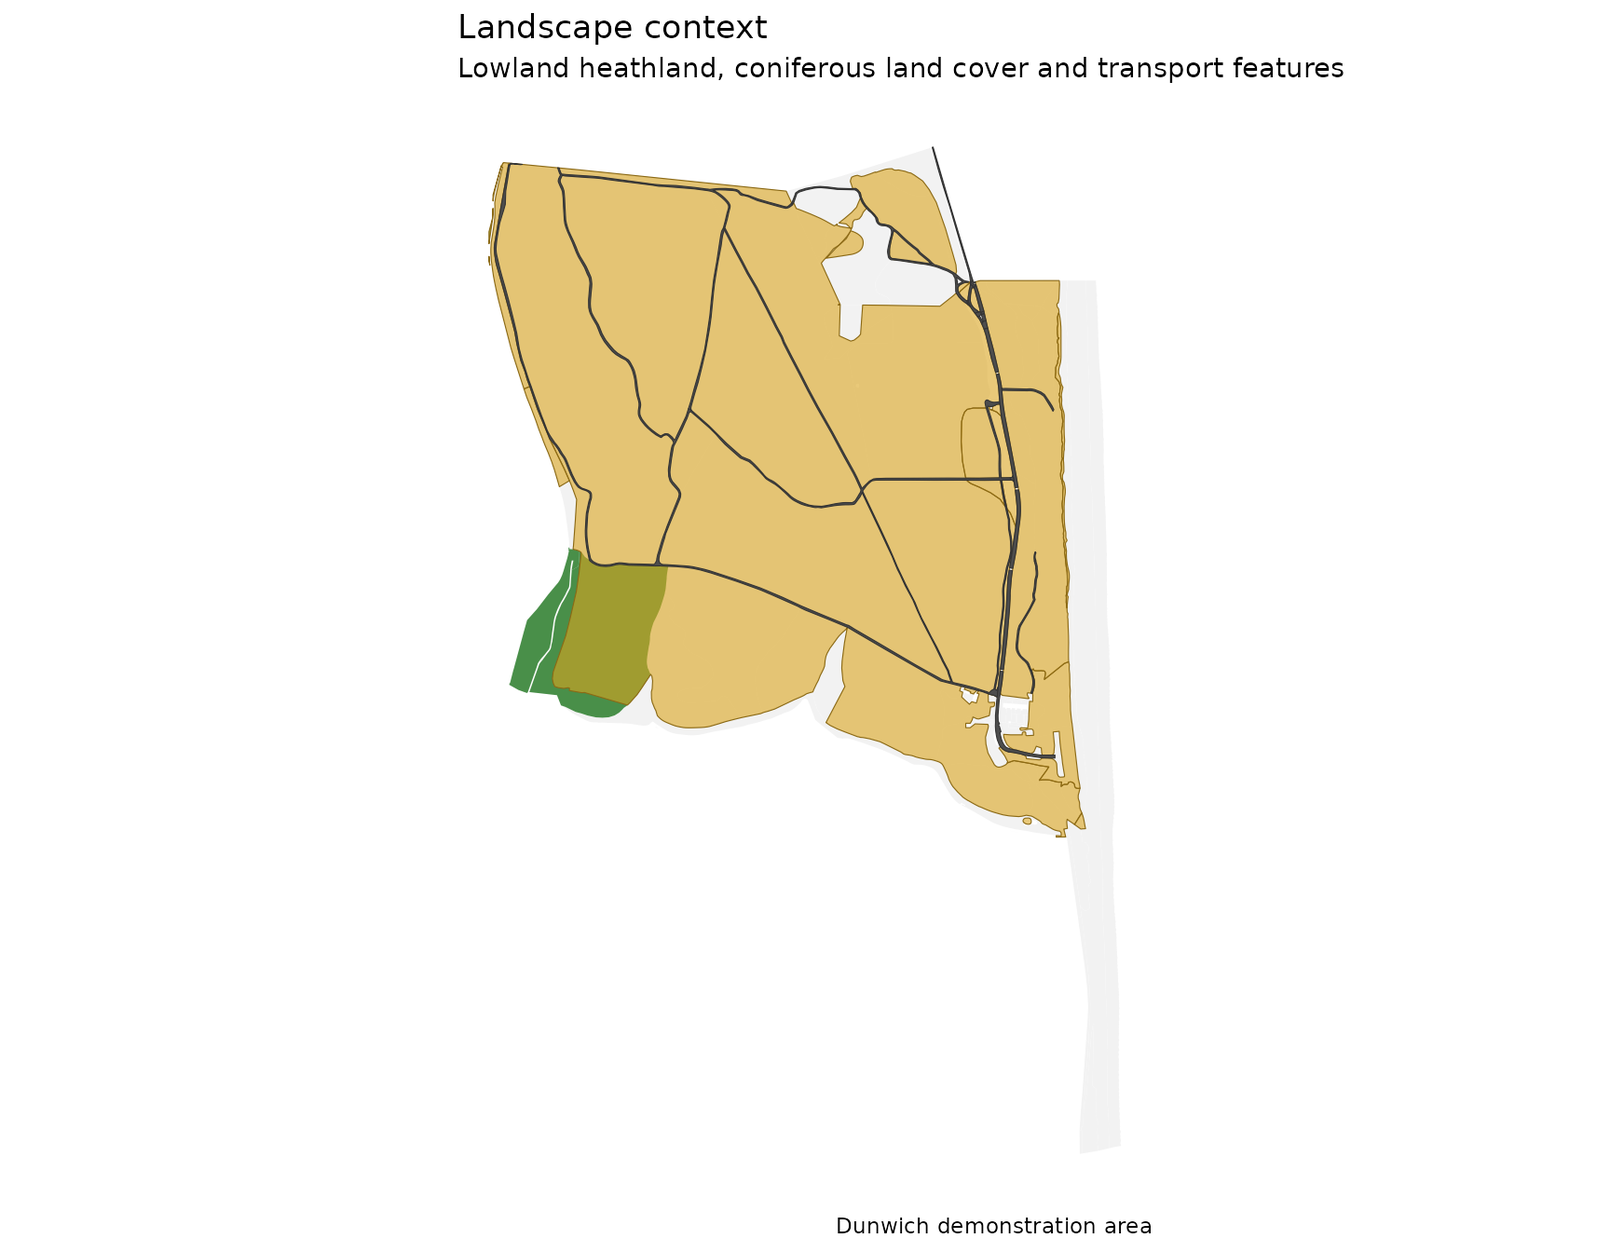
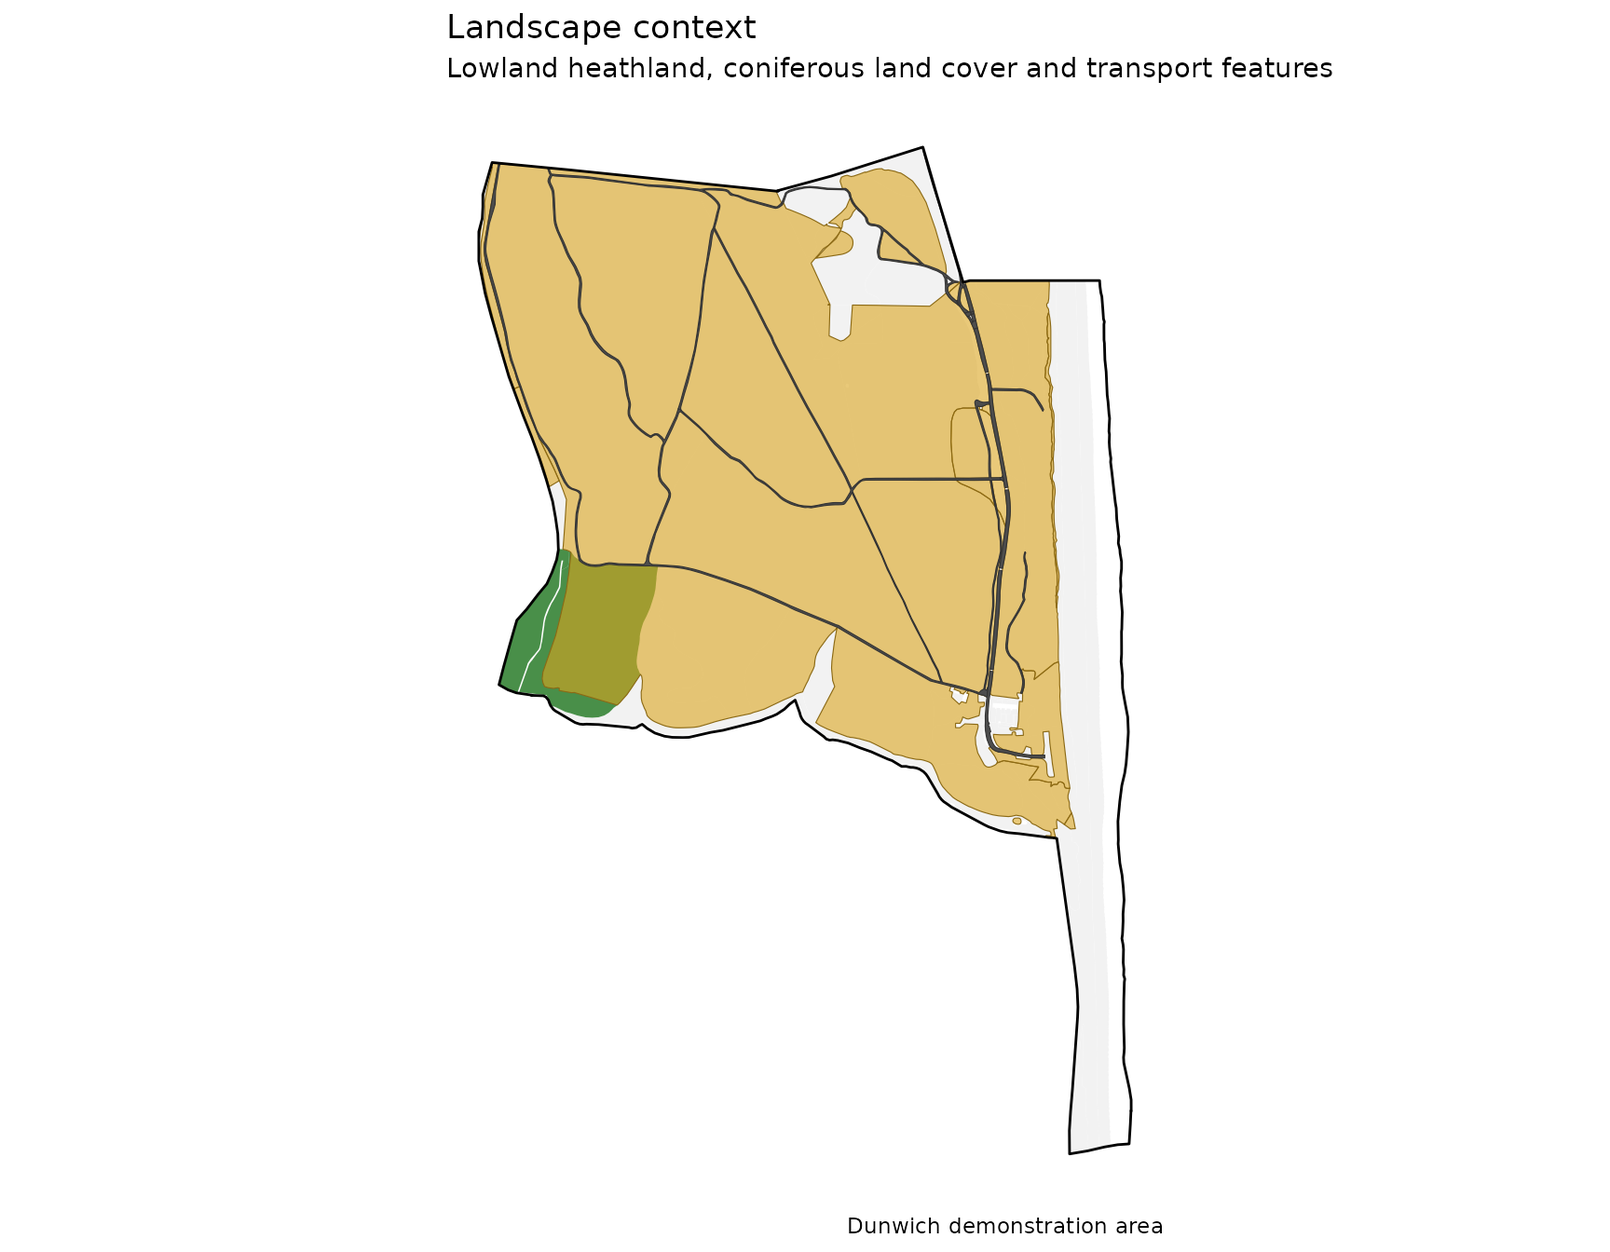
Deploying to gh-pages from @ julianflowers/sentinelBurnR@2986d019aa525b361d42f618dafe06cf55eafc19 🚀

diff --git a/articles/getting-started.html b/articles/getting-started.html
@@ -456,7 +456,7 @@ short-wave infrared reflectance.</li>
 <span><span class="co">#&gt; [1] "red"    "nir08"  "swir16"</span></span>
 <span><span class="co">#&gt; </span></span>
 <span><span class="co">#&gt; $provenance$processing$created</span></span>
-<span><span class="co">#&gt; [1] "2026-09-23 19:08:18 UTC"</span></span>
+<span><span class="co">#&gt; [1] "2026-09-23 19:30:38 UTC"</span></span>
 <span><span class="co">#&gt; </span></span>
 <span><span class="co">#&gt; $provenance$processing$package_version</span></span>
 <span><span class="co">#&gt; [1] "0.0.1"</span></span>
@@ -556,16 +556,16 @@ therefore remains an important part of the interpretation.</p>
 <p>The Sentinel-2 moisture anomaly indicates whether vegetation was
 unusually dry compared with previous years. It does not, by itself, tell
 us why the vegetation was dry.</p>
-<p>Meteorological data provide an independent line of evidence. Here we
-compare rainfall before the fire with the same period during the
-1991–2020 climate baseline.</p>
-<p>The demonstration data contain daily ERA5 rainfall extracted for the
-Dunwich area.</p>
+<p>Meteorological observations provide an independent line of evidence.
+<code>sentinelBurnR</code> can compare recent rainfall and temperature
+with the equivalent periods during a historical climate baseline. Here
+we use 1991–2020 as the reference period.</p>
+<p>For a full analysis, <code><a href="../reference/get_climate_baseline.html">get_climate_baseline()</a></code> downloads
+the required ERA5 data for both the analysis year and the baseline
+years. Only the months needed to calculate the requested climate windows
+are retrieved.</p>
 <div class="sourceCode" id="cb16"><pre class="downlit sourceCode r">
-<code class="sourceCode R"><span></span>
-<span><span class="va">boundary</span> <span class="op">&lt;-</span> <span class="fu"><a href="../reference/read_boundary.html">read_boundary</a></span><span class="op">(</span><span class="va">aoi</span><span class="op">)</span></span>
-<span></span>
-<span><span class="va">climate_data</span> <span class="op">&lt;-</span> <span class="fu">sentinelBurnR</span><span class="fu">::</span><span class="fu"><a href="../reference/get_climate_baseline.html">get_climate_baseline</a></span><span class="op">(</span></span>
+<code class="sourceCode R"><span><span class="va">climate_data</span> <span class="op">&lt;-</span> <span class="fu">sentinelBurnR</span><span class="fu">::</span><span class="fu"><a href="../reference/get_climate_baseline.html">get_climate_baseline</a></span><span class="op">(</span></span>
 <span>    boundary <span class="op">=</span> <span class="va">aoi</span>,</span>
 <span>    date <span class="op">=</span> <span class="fu"><a href="https://rdrr.io/r/base/as.Date.html" class="external-link">as.Date</a></span><span class="op">(</span><span class="st">"2026-07-29"</span><span class="op">)</span>,</span>
 <span>    baseline_years <span class="op">=</span> <span class="fl">1991</span><span class="op">:</span><span class="fl">2020</span></span>
@@ -580,6 +580,10 @@ Dunwich area.</p>
 <span><span class="op">)</span></span>
 <span></span>
 <span><span class="va">climate</span></span></code></pre></div>
+<p>Downloading ERA5 data requires access to the Copernicus Climate Data
+Store. To keep this vignette reproducible without network access, the
+executable example below uses rainfall data bundled with the
+package.</p>
 <div class="sourceCode" id="cb17"><pre class="downlit sourceCode r">
 <code class="sourceCode R"><span><span class="va">rainfall</span> <span class="op">&lt;-</span> <span class="fu"><a href="../reference/demo_data.html">demo_data</a></span><span class="op">(</span><span class="st">"rainfall"</span><span class="op">)</span></span>
 <span></span>
@@ -590,40 +594,38 @@ Dunwich area.</p>
 <span>    windows <span class="op">=</span> <span class="fu"><a href="https://rdrr.io/r/base/c.html" class="external-link">c</a></span><span class="op">(</span><span class="fl">30</span>, <span class="fl">60</span>, <span class="fl">90</span><span class="op">)</span></span>
 <span><span class="op">)</span></span>
 <span></span>
-<span><span class="va">rainfall_table</span> <span class="op">&lt;-</span> <span class="va">climate</span><span class="op">$</span><span class="va">summary</span> <span class="op">|&gt;</span></span>
+<span><span class="va">climate</span><span class="op">$</span><span class="va">summary</span> <span class="op">|&gt;</span></span>
 <span>    <span class="fu">dplyr</span><span class="fu">::</span><span class="fu"><a href="https://dplyr.tidyverse.org/reference/transmute.html" class="external-link">transmute</a></span><span class="op">(</span></span>
 <span>        `Period (days)` <span class="op">=</span> <span class="va">window_days</span>,</span>
 <span>        `2026 rainfall (mm)` <span class="op">=</span> <span class="va">current_mm</span>,</span>
 <span>        `1991–2020 median (mm)` <span class="op">=</span> <span class="va">baseline_median_mm</span>,</span>
-<span>        `Deficit (mm)` <span class="op">=</span> <span class="va">anomaly_mm</span>,</span>
+<span>        `Rainfall anomaly (mm)` <span class="op">=</span> <span class="va">anomaly_mm</span>,</span>
 <span>        `% of historical median` <span class="op">=</span> <span class="va">percent_of_normal</span>,</span>
 <span>        `Historical percentile` <span class="op">=</span> <span class="va">historical_percentile</span></span>
-<span>    <span class="op">)</span></span>
-<span></span>
-<span><span class="fu">knitr</span><span class="fu">::</span><span class="fu"><a href="https://rdrr.io/pkg/knitr/man/kable.html" class="external-link">kable</a></span><span class="op">(</span></span>
-<span>    <span class="va">rainfall_table</span>,</span>
-<span>    digits <span class="op">=</span> <span class="fl">1</span>,</span>
-<span>    caption <span class="op">=</span> <span class="fu"><a href="https://rdrr.io/r/base/paste.html" class="external-link">paste</a></span><span class="op">(</span></span>
-<span>        <span class="st">"Rainfall before 29 July 2026 compared with"</span>,</span>
-<span>        <span class="st">"the equivalent periods in the 1991–2020 baseline."</span></span>
-<span>    <span class="op">)</span></span>
-<span><span class="op">)</span></span></code></pre></div>
-<table style="width:100%;" class="table">
+<span>    <span class="op">)</span> <span class="op">|&gt;</span></span>
+<span>    <span class="fu">knitr</span><span class="fu">::</span><span class="fu"><a href="https://rdrr.io/pkg/knitr/man/kable.html" class="external-link">kable</a></span><span class="op">(</span></span>
+<span>        digits <span class="op">=</span> <span class="fl">1</span>,</span>
+<span>        caption <span class="op">=</span> <span class="fu"><a href="https://rdrr.io/r/base/paste.html" class="external-link">paste</a></span><span class="op">(</span></span>
+<span>            <span class="st">"Rainfall before 29 July 2026 compared with"</span>,</span>
+<span>            <span class="st">"the equivalent periods in the 1991–2020 baseline."</span></span>
+<span>        <span class="op">)</span></span>
+<span>    <span class="op">)</span></span></code></pre></div>
+<table class="table">
 <caption>Rainfall before 29 July 2026 compared with the equivalent
 periods in the 1991–2020 baseline.</caption>
 <colgroup>
-<col width="12%">
-<col width="16%">
-<col width="19%">
 <col width="11%">
-<col width="20%">
-<col width="19%">
+<col width="15%">
+<col width="18%">
+<col width="18%">
+<col width="18%">
+<col width="18%">
 </colgroup>
 <thead><tr class="header">
 <th align="right">Period (days)</th>
 <th align="right">2026 rainfall (mm)</th>
 <th align="right">1991–2020 median (mm)</th>
-<th align="right">Deficit (mm)</th>
+<th align="right">Rainfall anomaly (mm)</th>
 <th align="right">% of historical median</th>
 <th align="right">Historical percentile</th>
 </tr></thead>
@@ -654,44 +656,65 @@ periods in the 1991–2020 baseline.</caption>
 </tr>
 </tbody>
 </table>
-<p>The historical percentile ranks the 2026 rainfall total against the
-30 equivalent periods in the 1991–2020 baseline. For example, the 90-day
-rainfall total was at approximately the 3rd percentile. The 30-day value
-was lower than all 30 baseline values and therefore has an empirical
-percentile of 0%. This should be interpreted as a ranking within the
-30-year sample, rather than as a literal estimate of a zero-percent
+<p>The percentage of normal rainfall compares the observed rainfall
+total with the median of the equivalent periods in the baseline years.
+Values below 100% indicate less rainfall than the historical median.</p>
+<p>The historical percentile provides a complementary measure. It ranks
+the current rainfall total against the equivalent periods in the 30
+baseline years. With a 30-year baseline, the percentile is an empirical
+ranking within a relatively small sample. A value of 0%, for example,
+means that the current value was below all 30 baseline values; it should
+not be interpreted as a literal estimate of a zero-percent
 climatological probability.</p>
-<p>Rainfall was substantially below the historical median during the
-period leading up to the fire. In the 30 days ending 29 July 2026, only
-about 6.8 mm of rain fell, compared with a 1991–2020 median of about
-62.3 mm – approximately 11% of the historical median.</p>
-<p>The rainfall deficit was also apparent over longer periods. About
-68.4 mm fell during the preceding 60 days and 94.3 mm during the
-preceding 90 days, compared with historical medians of approximately
-123.4 and 172.8 mm respectively.</p>
-<p>This provides independent meteorological evidence that the negative
-vegetation moisture anomaly seen by Sentinel-2 occurred during an
-unusually dry period.</p>
+<p>The same comparison can be visualised directly.</p>
+<div class="sourceCode" id="cb18"><pre class="downlit sourceCode r">
+<code class="sourceCode R"><span><span class="fu">sentinelBurnR</span><span class="fu">::</span><span class="fu">plot_climate</span><span class="op">(</span></span>
+<span>    <span class="va">climate</span>,</span>
+<span>    metric <span class="op">=</span> <span class="st">"rainfall"</span></span>
+<span><span class="op">)</span></span></code></pre></div>
+<p><img src="getting-started_files/figure-html/climate-rainfall-plot-1.png" class="r-plt" alt="" width="672"></p>
+<p>Rainfall substantially below the historical median provides
+meteorological evidence that a negative vegetation moisture anomaly
+occurred during an unusually dry period. The two measurements are
+independent: Sentinel-2 describes the condition of the vegetation,
+whereas ERA5 describes the meteorological conditions preceding the
+satellite observation.</p>
+<p>When temperature data are supplied to <code><a href="../reference/analyse_climate.html">analyse_climate()</a></code>,
+the same analysis also compares recent temperature with the historical
+baseline.</p>
+<div class="sourceCode" id="cb19"><pre class="downlit sourceCode r">
+<code class="sourceCode R"><span><span class="va">climate</span><span class="op">$</span><span class="va">temperature</span></span>
+<span></span>
+<span><span class="fu">sentinelBurnR</span><span class="fu">::</span><span class="fu">plot_climate</span><span class="op">(</span></span>
+<span>    <span class="va">climate</span>,</span>
+<span>    metric <span class="op">=</span> <span class="st">"temperature"</span></span>
+<span><span class="op">)</span></span></code></pre></div>
+<p>Temperature anomalies are expressed in degrees Celsius relative to
+the baseline, while the historical percentile describes where the
+current temperature lies among the equivalent periods in the baseline
+years. As with rainfall, these percentiles are empirical rankings within
+the baseline sample rather than estimates of climatological
+probability.</p>
 <div class="section level3">
 <h3 id="prolonged-dry-weather">Prolonged dry weather<a class="anchor" aria-label="anchor" href="#prolonged-dry-weather"></a>
 </h3>
 <p>Total rainfall does not tell us how rain was distributed through
 time. A similar total could result from frequent small showers or from a
-long period with almost no rain.</p>
-<div class="sourceCode" id="cb18"><pre class="downlit sourceCode r">
+long period with almost no rain. <code><a href="../reference/analyse_climate.html">analyse_climate()</a></code>
+therefore also examines the duration of dry spells.</p>
+<div class="sourceCode" id="cb20"><pre class="downlit sourceCode r">
 <code class="sourceCode R"><span><span class="va">climate</span><span class="op">$</span><span class="va">dry_spell</span></span>
 <span><span class="co">#&gt;   window_days threshold_mm max_consecutive_dry_days days_since_rain dry_days</span></span>
 <span><span class="co">#&gt; 1          90            1                       32               3       68</span></span>
 <span><span class="co">#&gt;   dry_spell_start dry_spell_end</span></span>
 <span><span class="co">#&gt; 1      2026-06-24    2026-07-25</span></span></code></pre></div>
-<p>Using less than 1 mm of rainfall per day to define a dry day, 68 of
-the 90 days before 29 July were dry.</p>
-<p>The longest continuous dry spell lasted 32 days, from 24 June to 25
-July. Only three days had elapsed since the most recent day with at
-least 1 mm of rainfall.</p>
-<p>We can also compare the duration of this dry spell with the
-equivalent 90-day period during the 1991–2020 baseline.</p>
-<div class="sourceCode" id="cb19"><pre class="downlit sourceCode r">
+<p>By default, a day with less than 1 mm of rainfall is treated as a dry
+day. The result reports the number of dry days in the analysis window,
+the longest consecutive dry spell, its start and end dates, and the
+number of days since the most recent day with at least 1 mm of rain.</p>
+<p>The current dry spell can also be compared with the equivalent period
+in each baseline year.</p>
+<div class="sourceCode" id="cb21"><pre class="downlit sourceCode r">
 <code class="sourceCode R"><span><span class="va">climate</span><span class="op">$</span><span class="va">dry_spell_baseline</span><span class="op">[</span><span class="fu"><a href="https://rdrr.io/r/base/c.html" class="external-link">c</a></span><span class="op">(</span></span>
 <span>    <span class="st">"median_days"</span>,</span>
 <span>    <span class="st">"max_days"</span>,</span>
@@ -705,21 +728,17 @@ equivalent 90-day period during the 1991–2020 baseline.</p>
 <span><span class="co">#&gt; </span></span>
 <span><span class="co">#&gt; $percentile</span></span>
 <span><span class="co">#&gt; [1] 96.66667</span></span></code></pre></div>
-<p>The median longest dry spell during the 1991–2020 baseline was 13.5
-days. The 32-day spell in 2026 was therefore more than twice the
-historical median.</p>
-<p>Only one of the 30 baseline years had a longer dry spell: 2018, when
-the longest spell lasted 36 days. The 2026 value has an empirical
-percentile of approximately 96.7%, meaning that it was longer than the
-corresponding dry spell in 29 of the 30 baseline years.</p>
-<p>Taken together, the rainfall and satellite observations provide two
-independent lines of evidence of unusually dry conditions before the
-fire. Rainfall was substantially below the historical median and a
-prolonged dry spell had occurred, while Sentinel-2 showed a negative
-vegetation moisture anomaly across much of the area.</p>
-<p>These observations describe the environmental conditions preceding
-the fire. They do not establish its cause or, by themselves, quantify
-wildfire risk.</p>
+<p>The baseline median describes the typical longest dry spell during
+the equivalent historical period. The percentile shows how the current
+longest dry spell ranks among the baseline years.</p>
+<p>Taken together, rainfall, temperature, dry-spell and satellite
+observations provide complementary evidence about the environmental
+conditions preceding a fire. Rainfall describes water input, temperature
+influences evaporative demand, and Sentinel-2 measures the condition of
+the vegetation itself.</p>
+<p>These observations describe environmental conditions. They do not
+establish the cause of a fire or, by themselves, quantify wildfire
+risk.</p>
 </div>
 <div class="section level3">
 <h3 id="landscape-context">Landscape context<a class="anchor" aria-label="anchor" href="#landscape-context"></a>
@@ -733,7 +752,7 @@ affect access, suppression and fuel continuity.</p>
 relationships. It does not calculate a wildfire risk score; instead, it
 reports measurable landscape characteristics that can be interpreted
 alongside vegetation, drought and climate information.</p>
-<div class="sourceCode" id="cb20"><pre class="downlit sourceCode r">
+<div class="sourceCode" id="cb22"><pre class="downlit sourceCode r">
 <code class="sourceCode R"><span><span class="va">landcover</span> <span class="op">&lt;-</span> <span class="fu"><a href="../reference/demo_data.html">demo_data</a></span><span class="op">(</span><span class="st">"landcover"</span><span class="op">)</span></span>
 <span><span class="va">habitat</span> <span class="op">&lt;-</span> <span class="fu"><a href="../reference/demo_data.html">demo_data</a></span><span class="op">(</span><span class="st">"habitat"</span><span class="op">)</span></span>
 <span><span class="va">transport</span> <span class="op">&lt;-</span> <span class="fu"><a href="../reference/demo_data.html">demo_data</a></span><span class="op">(</span><span class="st">"transport"</span><span class="op">)</span></span></code></pre></div>
@@ -741,7 +760,7 @@ alongside vegetation, drought and climate information.</p>
 heathland and coniferous land cover. Priority habitat polygons provide
 the heathland mapping, while coniferous cover is identified from OS
 land-cover classes.</p>
-<div class="sourceCode" id="cb21"><pre class="downlit sourceCode r">
+<div class="sourceCode" id="cb23"><pre class="downlit sourceCode r">
 <code class="sourceCode R"><span><span class="va">heath</span> <span class="op">&lt;-</span> <span class="va">habitat</span> <span class="op">|&gt;</span></span>
 <span>    <span class="fu">dplyr</span><span class="fu">::</span><span class="fu"><a href="https://dplyr.tidyverse.org/reference/filter.html" class="external-link">filter</a></span><span class="op">(</span></span>
 <span>        <span class="fu">stringr</span><span class="fu">::</span><span class="fu"><a href="https://stringr.tidyverse.org/reference/str_detect.html" class="external-link">str_detect</a></span><span class="op">(</span></span>
@@ -762,7 +781,7 @@ land-cover classes.</p>
 <span>            <span class="op">)</span></span>
 <span>        <span class="op">)</span></span>
 <span>    <span class="op">)</span></span></code></pre></div>
-<div class="sourceCode" id="cb22"><pre class="downlit sourceCode r">
+<div class="sourceCode" id="cb24"><pre class="downlit sourceCode r">
 <code class="sourceCode R"><span><span class="va">landscape</span> <span class="op">&lt;-</span> <span class="fu">sentinelBurnR</span><span class="fu">::</span><span class="fu"><a href="../reference/analyse_landscape.html">analyse_landscape</a></span><span class="op">(</span></span>
 <span>    landcover <span class="op">=</span> <span class="va">landcover</span>,</span>
 <span>    category <span class="op">=</span> <span class="st">"lcb"</span>,</span>
@@ -830,7 +849,7 @@ close to the heathland boundary. This describes the spatial relationship
 between the two mapped cover types; it should not by itself be
 interpreted as a measure of wildfire probability or expected fire
 behaviour.</p>
-<div class="sourceCode" id="cb23"><pre class="downlit sourceCode r">
+<div class="sourceCode" id="cb25"><pre class="downlit sourceCode r">
 <code class="sourceCode R"><span><span class="va">landscape</span><span class="op">$</span><span class="va">interface_bands</span> <span class="op">|&gt;</span></span>
 <span>    <span class="fu">dplyr</span><span class="fu">::</span><span class="fu"><a href="https://dplyr.tidyverse.org/reference/transmute.html" class="external-link">transmute</a></span><span class="op">(</span></span>
 <span>        Interface <span class="op">=</span> <span class="va">interface</span>,</span>
@@ -880,9 +899,11 @@ mapped transport features. A mapped road or track should not
 automatically be interpreted as an effective firebreak: its importance
 depends on characteristics such as width, surface, surrounding
 vegetation, condition and accessibility.</p>
-<div class="sourceCode" id="cb24"><pre class="downlit sourceCode r">
+<div class="sourceCode" id="cb26"><pre class="downlit sourceCode r">
 <code class="sourceCode R"><span></span>
-<span><span class="va">aoi_sf</span> <span class="op">&lt;-</span> <span class="va">aoi</span><span class="op">$</span><span class="va">geometry</span></span>
+<span><span class="va">aoi_sf</span> <span class="op">&lt;-</span> <span class="va">aoi</span> <span class="op">|&gt;</span></span>
+<span>    <span class="fu">sentinelBurnR</span><span class="fu">:::</span><span class="fu">aoi_to_spatvector</span><span class="op">(</span><span class="op">)</span> <span class="op">|&gt;</span></span>
+<span>    <span class="fu">sf</span><span class="fu">::</span><span class="fu"><a href="https://r-spatial.github.io/sf/reference/st_as_sf.html" class="external-link">st_as_sf</a></span><span class="op">(</span><span class="op">)</span></span>
 <span></span>
 <span><span class="fu">ggplot2</span><span class="fu">::</span><span class="fu"><a href="https://ggplot2.tidyverse.org/reference/ggplot.html" class="external-link">ggplot</a></span><span class="op">(</span><span class="op">)</span> <span class="op">+</span></span>
 <span>    <span class="fu">ggplot2</span><span class="fu">::</span><span class="fu"><a href="https://ggplot2.tidyverse.org/reference/ggsf.html" class="external-link">geom_sf</a></span><span class="op">(</span></span>
